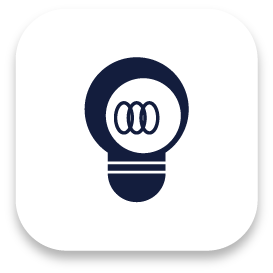
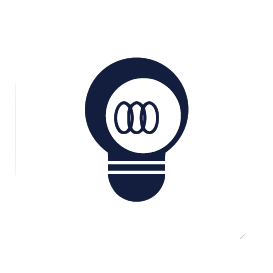
이미지 파일 여백 제거 / main 마우스오버 적용

diff --git a/templates/body/main.html b/templates/body/main.html
@@ -18,10 +18,9 @@
             </tr>
             <tr>
                 <td>
-                    <!-- <a href="{% url 'itrencotech:onlyIdea' %}">
-                        <img src="/static/images/onlyIdeaIcon.png" height="200px" width="200px" alt="image" /></a> -->
+                    
                     <!-- 마우스오버 효과 -->
-                    <figure class="snip1141"> <img style="position: relative; border-radius: 40px;"
+                    <figure class="snip1141"> <img style="position: relative; "
                             src="/static/images/onlyIdeaIcon.png" width="200px" height="200px"  />
                         <figcaption>
                             <!-- 상단 동그라미 부분 -->
@@ -32,9 +31,13 @@
                         </figcaption>
 
                         <!-- body 부분 -->
-                        <h3 style="top: 30%;">
+                        <h3 style="top: 35%;">
                             - 제품디자인 <br>
+                        </h3>
+                        <h3 style="top: 45%;">   
                             - 기계시스템 설계 <br>
+                        </h3>
+                        <h3 style="top: 55%;">
                             - H/W 기구설계 <br>
                         </h3>
 
@@ -42,11 +45,10 @@
                     </figure>
                 </td>
                 <td>
-                    <!-- <a href="{% url 'itrencotech:prototyping' %}">
-                        <img src="/static/images/prototypingIcon.png" height="200px" width="200px" alt="image" /></a> -->
+                    
                     <!-- 마우스오버 효과 -->
-                    <figure class="snip1141"> <img style="position: relative; "
-                            src="/static/images/prototypingIcon.png" width="200px" height="200px" />
+                    <figure class="snip1141"> <img style="position: relative; border-radius: 50px;"
+                            src="/static/images/prototypingIcon.png" width="200px" height="200px"  />
                         <figcaption>
                             <!-- 상단 동그라미 부분 -->
                             <div class="circle"><i class="ion-ios-plus-empty"> </i></div>
@@ -56,19 +58,27 @@
                         </figcaption>
 
                         <!-- body 부분 -->
-                        <h3 style="top: 30%;">
+                        <h3 style="top: 35%;">
                             - 3D 프린팅 <br>
+                        </h3>
+                        <h3 style="top: 45%;">
                             - 목업 CNC 가공 <br>
+                        </h3>
+                        <h3 style="top: 55%;">   
                             - 부품 CNC 가공 <br>
-                            - Smart Digital Mold <br>
+                        </h3>
+                        <h3 style="top: 65%;">
+                            - Smart Digital <br>
+                        </h3>
+                        <h3 style="top: 75%;">
+                        &nbsp;&nbsp;&nbsp;Mold  <br>
                         </h3>
 
                         <a href="{% url 'itrencotech:prototyping' %}"></a>
                     </figure>
                 </td>
                 <td>
-                    <!-- <a href="{% url 'itrencotech:body_production_home' %}">
-                        <img src="/static/images/productionIcon.png" height="200px" width="200px" alt="image" /></a> -->
+                    
                     <figure class="snip1141"> <img style="position: relative; "
                             src="/static/images/prototypingIcon.png" width="200px" height="200px" />
                         <figcaption>
@@ -80,11 +90,16 @@
                         </figcaption>
 
                         <!-- body 부분 -->
-                        <h3 style="top: 30%;">
+                        <h3 style="top: 35%;">
                             - 금형 제작 <br>
+                        </h3>
+                        <h3 style="top: 45%;">
                             - 사출 성형 <br>
+                        </h3>
+                        <h3 style="top: 55%;">   
                             - 판금 절곡 <br>
                         </h3>
+                        
 
                         <a href="{% url 'itrencotech:body_production_home' %}"></a>
                     </figure>

diff --git a/static/css/mouseover.css b/static/css/mouseover.css
@@ -5,8 +5,8 @@ figure.snip1141 {
   position: relative;
   overflow: hidden;
   margin: 10px;
-  max-width: 251px;
-  max-height: 251px;
+  max-width: 200px;
+  max-height: 200px;
   border-radius: 50px;
   width: 100%;
   background: #000000;
